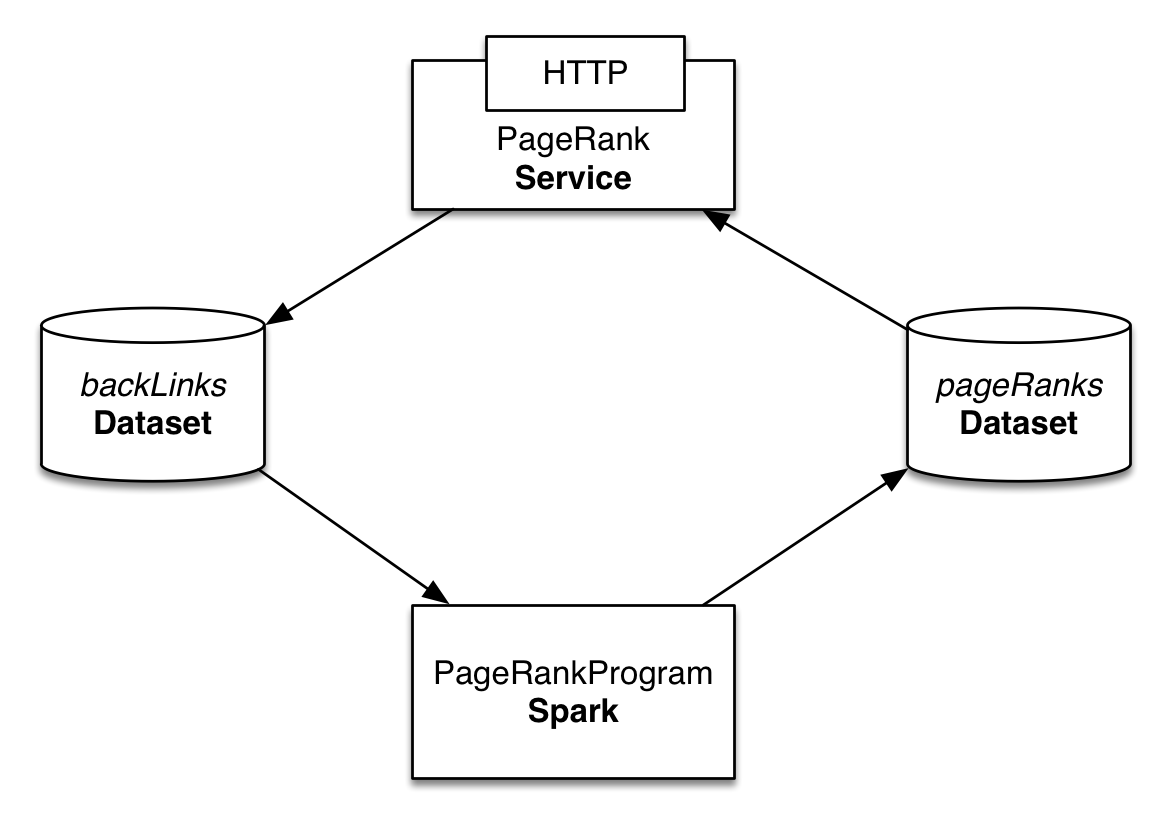
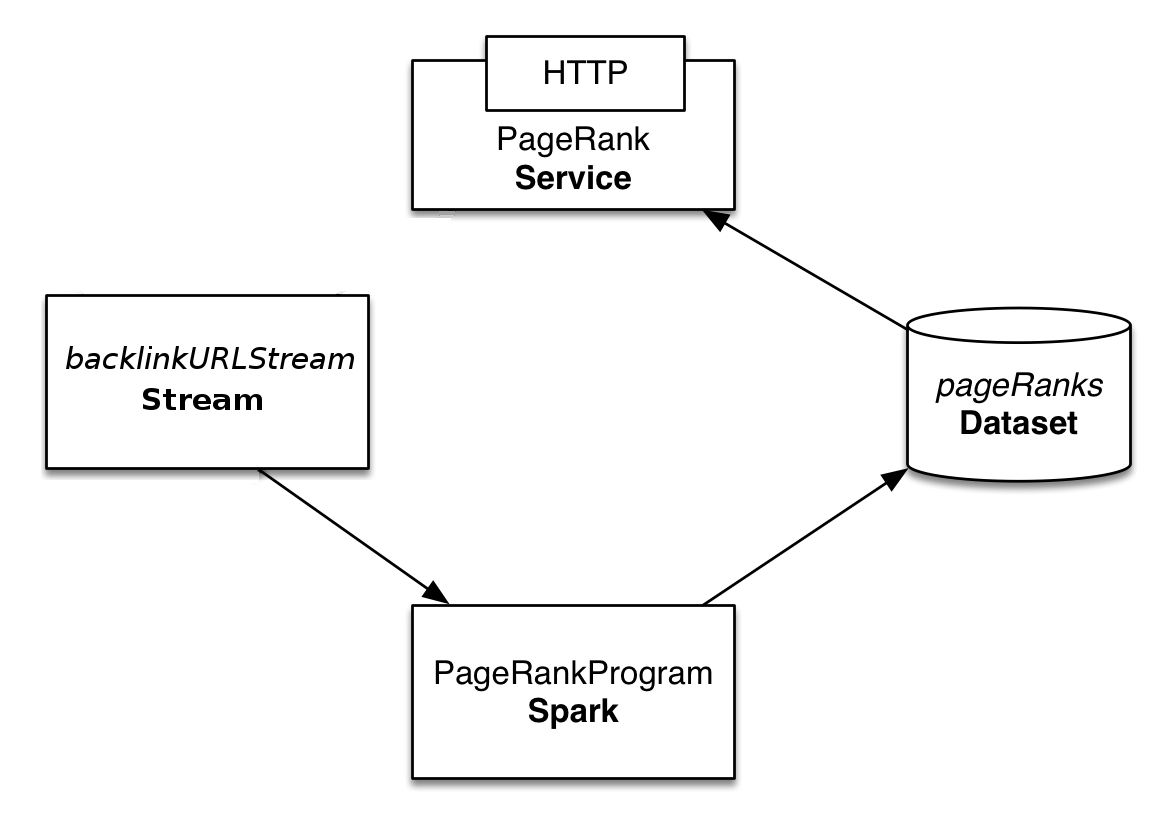
CDAP-527: updated docs

Changed region(s): [[0.0307, 0.3333, 0.3382, 0.6061], [0.3382, 0.2727, 0.3689, 0.303], [0.3074, 0.303, 0.3382, 0.3333]]

diff --git a/src/main/java/co/cask/cdap/guides/PageRankApp.java b/src/main/java/co/cask/cdap/guides/PageRankApp.java
@@ -30,8 +30,8 @@ public class PageRankApp extends AbstractApplication {
   @Override
   public void configure() {
     setName("PageRankApp");
-    addSpark(new PageRankSpark());
     addStream(new Stream("backlinkURLStream"));
+    addSpark(new PageRankSpark());
     addService("PageRankService", new PageRankHandler());
     try {
       ObjectStores.createObjectStore(getConfigurer(), "pageRanks", Double.class);

diff --git a/README.md b/README.md
@@ -14,16 +14,18 @@ that exposes a REST API to take in web pages’ backlinks information and
 serve out the [PageRank](http://en.wikipedia.org/wiki/PageRank) for the
 known web pages. You will:
 
+- Use a
+  [Stream](http://docs.cdap.io/cdap/current/en/developers-manual/building-blocks/streams.html)
+  as the source of backlinks data;
 - Build a CDAP
   [Spark](http://docs.cdap.io/cdap/current/en/developers-manual/building-blocks/spark-jobs.html)
-  program that computes the PageRank of the web pages;
-- Build a
-  [Service](http://docs.cdap.io/cdap/current/en/developers-manual/building-blocks/services.html)
-  to receive backlinks data and serve the PageRank computation results over HTTP;
+  program that reads directly from the Stream and computes the PageRank of the web pages;
 - Use a
   [Dataset](http://docs.cdap.io/cdap/current/en/developers-manual/building-blocks/datasets/index.html)
-  to store the input data; and
-- Use a Dataset as input and output for the Spark program.
+  to store the output of the Spark program; and
+- Build a
+  [Service](http://docs.cdap.io/cdap/current/en/developers-manual/building-blocks/services.html)
+  to serve the PageRank computation results over HTTP.
 
 What You Will Need
 ------------------
@@ -78,9 +80,9 @@ public class PageRankApp extends AbstractApplication {
 
   @Override
   public void configure() {
-    setName("PageRankApplication");
-    addSpark(new PageRankSpark());
+    setName("PageRankApp");
     addStream(new Stream("backlinkURLStream"));
+    addSpark(new PageRankSpark());
     addService("PageRankService", new PageRankHandler());
     try {
       ObjectStores.createObjectStore(getConfigurer(), "pageRanks", Double.class);
@@ -91,14 +93,15 @@ public class PageRankApp extends AbstractApplication {
 }
 ```
 
+In this example, we use a Stream to supply backlinks data;
+the Spark program that computes the PageRank of the web pages reads directly from the Stream.
 `backlinkURLStream` receives backlinks information in the form of two URLs separated by whitespace:
 
 ``` {.sourceCode .console}
 http://example.com/page1 http://example.com/page10
 ```
 
-In this example we’ll use Scala to write a Spark program (for an example
-of using Java, refer to the [CDAP SparkPageRank
+We’ll use Scala to write the Spark program (for an example of using Java, refer to the [CDAP SparkPageRank
 example](http://docs.cask.co/cdap/current/en/developers-manual/examples/spark-page-rank.html)).
 You’ll need to add `scala` and `maven-scala-plugin` as dependencies in
 your Maven
@@ -215,7 +218,7 @@ Start the Service:
 
     cdap-cli.sh start service PageRankApp.PageRankService 
 
-Send some Data:
+Send some Data to the Stream:
 
     export BACKLINK_URL=http://localhost:10000/v2/streams/backlinkURLStream
 
